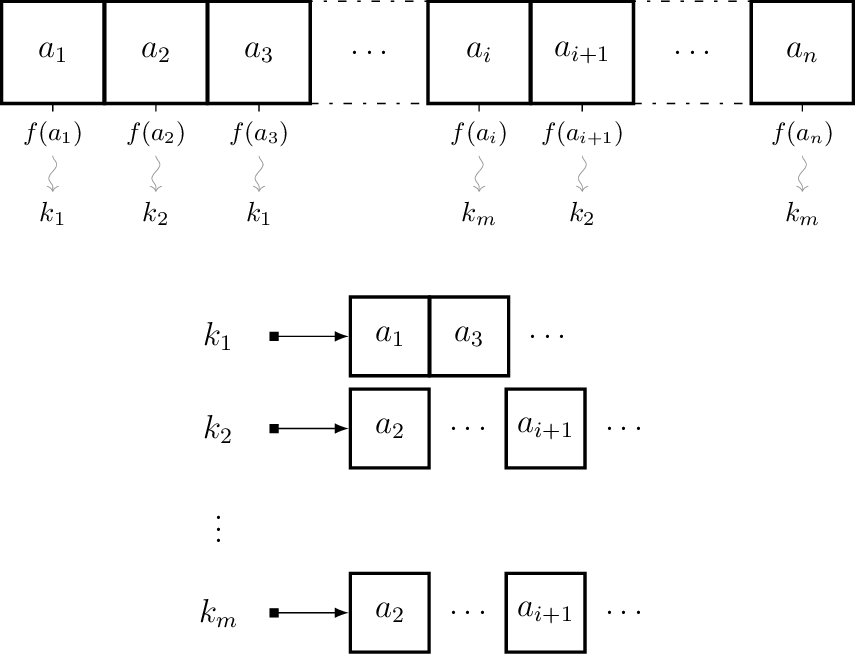
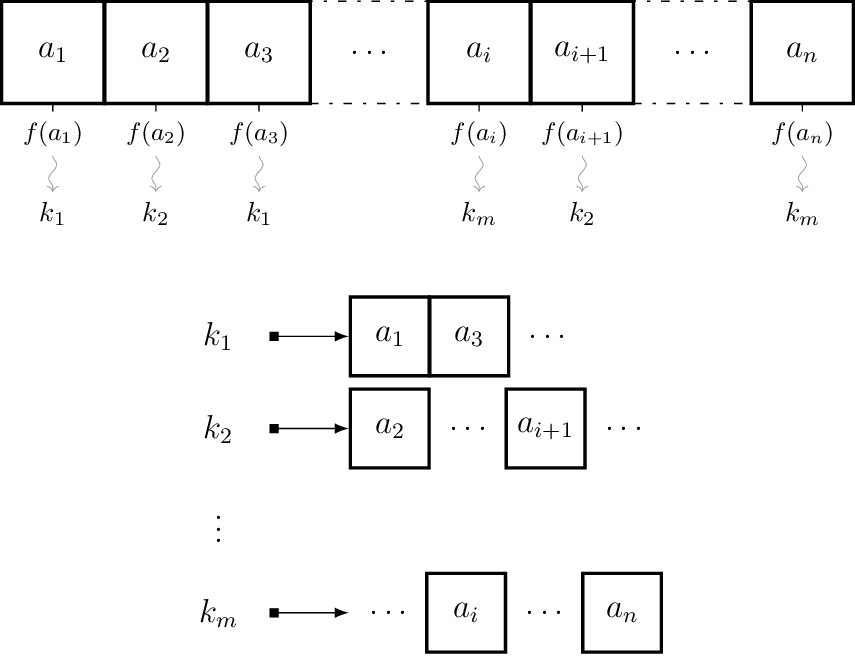
fix groupBy

Changed region(s): [[0.3953, 0.8485, 0.7906, 1.0]]

diff --git a/src/images/groupBy.tex b/src/images/groupBy.tex
@@ -37,10 +37,10 @@
 };
 
 \matrix (Km) [map values, right=1cm of km.east] {
-  \node                        {$a_2$};     &
-  \node [draw=none, fill=none] {$\ldots$};  &
-  \node                        {$a_{i+1}$}; &
-  \node [draw=none, fill=none] {$\ldots$};  \\
+  \node [draw=none, fill=none] {$\ldots$}; &
+  \node                        {$a_i$};    &
+  \node [draw=none, fill=none] {$\ldots$}; &
+  \node                        {$a_n$};    \\
 };
 
 \draw (k1) [map to] -- (K1);
